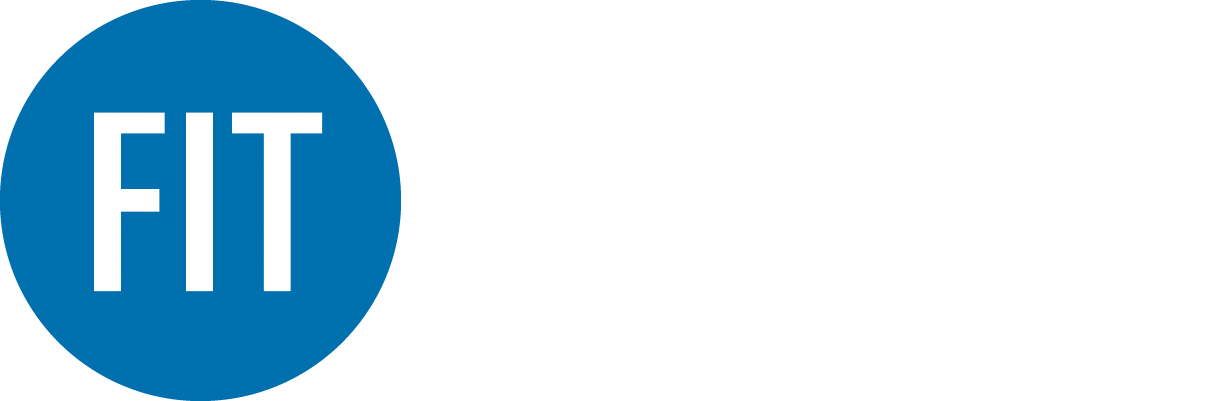
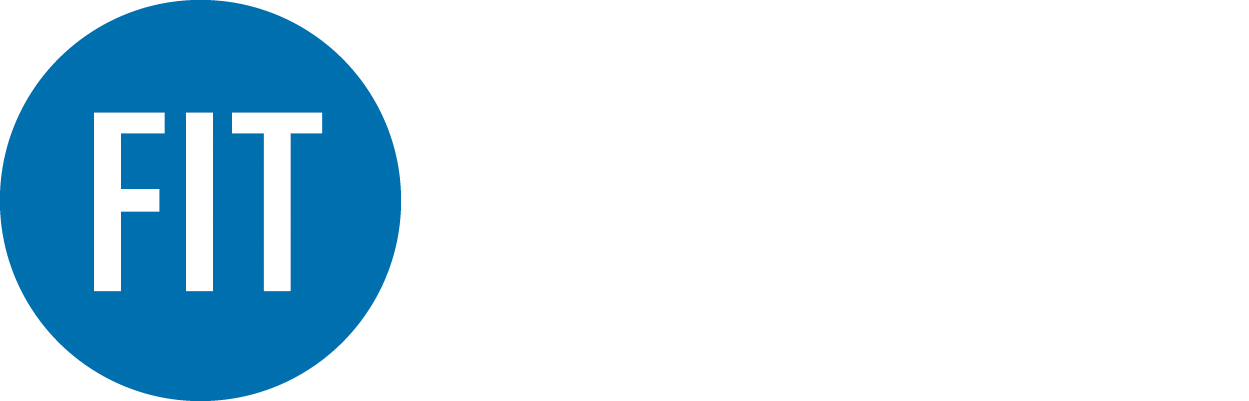
fixed images

diff --git a/modules/staticpage/templates/homeSuccess.php b/modules/staticpage/templates/homeSuccess.php
@@ -2,7 +2,7 @@
   <div id="splash">
 	<div class="row">
 		<div class="span6" id="logo">
-			<?php echo image_tag('/plugins/arSparcPlugin/images/sparc.png', array('alt' => __('FIT Special Collections and College Archives'))) ?>
+			<?php echo image_tag('/plugins/arSparcPlugin/images/sparc_2.png', array('alt' => __('FIT Special Collections and College Archives'))) ?>
 		</div>
 	</div>
 	<div class="row">
